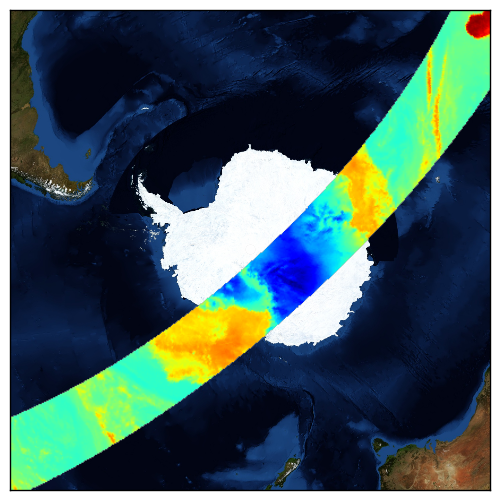
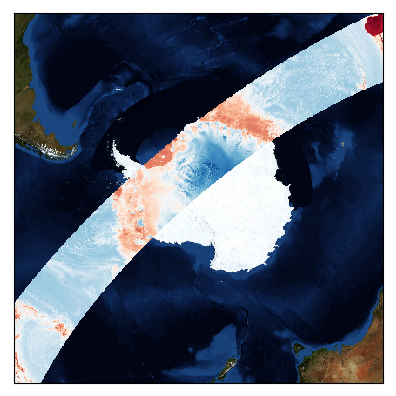
Fix meridians and parallels and blue marble with Cartopy

diff --git a/pyresample/plot.py b/pyresample/plot.py
@@ -216,19 +216,23 @@ def _get_quicklook(area_def, data, vmin=None, vmax=None,
         raise ValueError('area_def shape %s does not match data shape %s' %
                          (list(area_def.shape), list(data.shape)))
     import matplotlib.pyplot as plt
+    import matplotlib.ticker as mticker
+
     crs = area_def.to_cartopy_crs()
     ax = plt.axes(projection=crs)
     ax.coastlines(resolution=coast_res)
     ax.set_global()
 
-    xlocs = None
-    ylocs = None
-    if num_meridians:
-        xlocs = np.arange(-180, 180, num_meridians)
-    if num_parallels:
-        ylocs = np.arange(-90, 90, num_parallels)
-    if xlocs is not None or ylocs is not None:
-        ax.gridlines(xlocs=xlocs, ylocs=ylocs)
+    if num_meridians or num_parallels:
+        gl = ax.gridlines()
+        if num_meridians:
+            gl.xlocator = mticker.FixedLocator(np.arange(-180, 180+num_meridians, num_meridians))
+        else:
+            gl.xlines = False
+        if num_parallels:
+            gl.ylocator = mticker.FixedLocator(np.arange(-90, 90+num_parallels, num_parallels))
+        else:
+            gl.ylines = False
 
     if not (np.ma.isMaskedArray(data) and data.mask.all()):
         col = ax.imshow(data, transform=crs, extent=crs.bounds,

diff --git a/docs/source/plot.rst b/docs/source/plot.rst
@@ -24,7 +24,7 @@ supported by Satpy_. All you need are a set of geo-referenced values
 First we read in the data with Satpy_:
 
  >>> from satpy.scene import Scene
- >>> SCENE_FILES = glob("/home/a000680/Satsa/amsr2/level1b/GW1AM2_20191122????_156*h5")
+ >>> SCENE_FILES = glob("./GW1AM2_20191122????_156*h5")
  >>> scn = Scene(reader='amsr2_l1b', filenames=SCENE_FILES)
  >>> scn.load(["btemp_36.5v"])
  >>> lons, lats = scn["btemp_36.5v"].area.get_lonlats()
@@ -85,7 +85,7 @@ Assuming the file **areas.yaml** has the following area definition:
  >>> area_def = load_area('areas.yaml', 'pc_world')
  >>> swath_def = SwathDefinition(lons, lats)
  >>> result = resample_nearest(swath_def, tb37v, area_def, radius_of_influence=20000, fill_value=None)
- >>> save_quicklook('tb37v_pc.png', area_def, result, num_meridians=0, num_parallels=0, label='Tb 37v (K)')
+ >>> save_quicklook('tb37v_pc.png', area_def, result, num_meridians=None, num_parallels=None, label='Tb 37v (K)')
 
 Assuming **lons**, **lats** and **tb37v** are initialized with real data (like
 above we use AMSR-2 data in this example) the result might look something like
@@ -129,7 +129,7 @@ the following area definition for an ortho projection area:
  >>> area_def = load_area('areas.yaml', 'ortho')
  >>> swath_def = SwathDefinition(lons, lats)
  >>> result = resample_nearest(swath_def, tb37v, area_def, radius_of_influence=20000, fill_value=None)
- >>> save_quicklook('tb37v_ortho.png', area_def, result, num_meridians=0, num_parallels=0, label='Tb 37v (K)')
+ >>> save_quicklook('tb37v_ortho.png', area_def, result, num_meridians=None, num_parallels=None, label='Tb 37v (K)')
 
 Assuming **lons**, **lats** and **tb37v** are initialized with real data, like
 in the above examples, the result might look something like this:
@@ -194,16 +194,18 @@ AreaDefinition using the **plot.area_def2basemap(area_def, **kwargs)** function.
  >>> lons = np.zeros(1000)
  >>> lats = np.arange(-80, -90, -0.01)
  >>> tb37v = np.arange(1000)
- >>> area_def = load_area('areas.cfg', 'ease_sh')
+ >>> area_def = load_area('areas.yaml', 'ease_sh')
  >>> swath_def = SwathDefinition(lons, lats)
  >>> result = resample_nearest(swath_def, tb37v, area_def,
  ...                           radius_of_influence=20000, fill_value=None)
  >>> bmap = area_def2basemap(area_def)
  >>> bmng = bmap.bluemarble()
- >>> col = bmap.imshow(result, origin='upper')
+ >>> col = bmap.imshow(result, origin='upper', cmap='RdBu_r')
  >>> plt.savefig('tb37v_bmng.png', bbox_inches='tight')
 
-Assuming **lons**, **lats** and **tb37v** are initialized with real data the result might look something like this:
+Assuming **lons**, **lats** and **tb37v** are initialized with real data as in
+the previous examples the result might look something like this:
+
   .. image:: _static/images/tb37v_bmng.png
   
 Any keyword arguments (not concerning the projection) passed to **plot.area_def2basemap** will be passed
@@ -211,5 +213,42 @@ directly to the Basemap initialization.
 
 For more information on how to plot with Basemap please refer to the Basemap and matplotlib documentation.
 
+
+Adding background maps with Cartopy
+-----------------------------------
+
+As mentioned in the above warning Cartopy should be used rather than Basemap as
+the letter is not maintained anymore.
+
+The above image can be generated using Cartopy instead by utilizing the method `to_cartopy_crs` of the
+`AreaDefinition` object.
+
+**Example usage:**
+
+ >>> import numpy as np
+ >>> import matplotlib.pyplot as plt
+ >>> from pyresample import load_area, save_quicklook, area_def2basemap, SwathDefinition
+ >>> from pyresample.kd_tree import resample_nearest
+ >>> lons = np.zeros(1000)
+ >>> lats = np.arange(-80, -90, -0.01)
+ >>> tb37v = np.arange(1000)
+ >>> area_def = load_area('areas.yaml', 'ease_sh')
+ >>> swath_def = SwathDefinition(lons, lats)
+ >>> result = resample_nearest(swath_def, tb37v, area_def,
+ ...                           radius_of_influence=20000, fill_value=None)
+ >>>  import matplotlib.pyplot as plt
+ >>> crs = area_def.to_cartopy_crs()
+ >>> ax = plt.axes(projection=crs)
+ >>> ax.background_img(name='BM')
+ >>> plt.imshow(result, transform=crs, extent=crs.bounds, origin='upper', cmap='RdBu_r')
+ >>> plt.savefig('tb37v_bmng.png', bbox_inches='tight')
+
+ The above provides you have the Bluemarble background data available in the
+ Cartopy standard place or in a directory pointed to by the environment
+ parameter `CARTOPY_USER_BACKGROUNDS`.
+
+ With real data (same AMSR-2 as above) this might look like this:
+ 
+   .. image:: _static/images/tb37v_bmng.png
 
 .. _Satpy: http://www.github.com/pytroll/satpy
